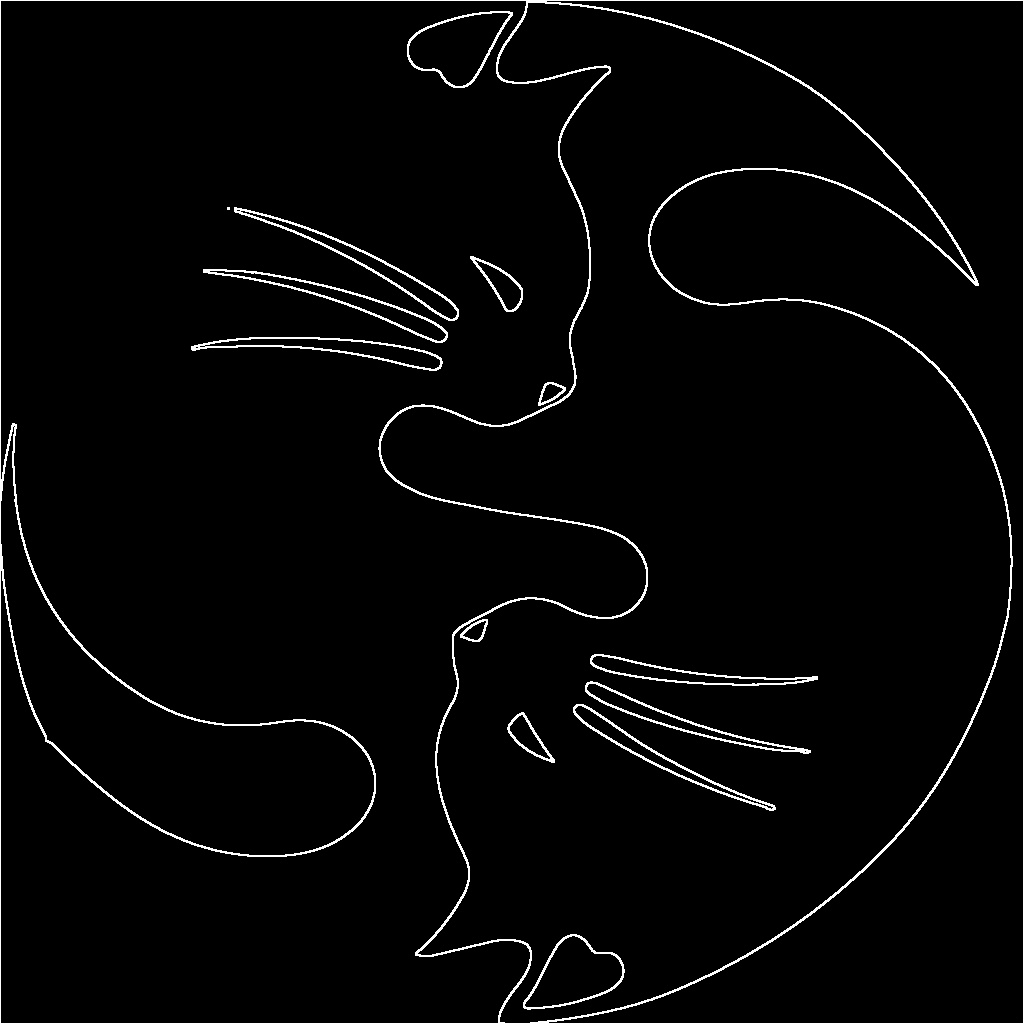
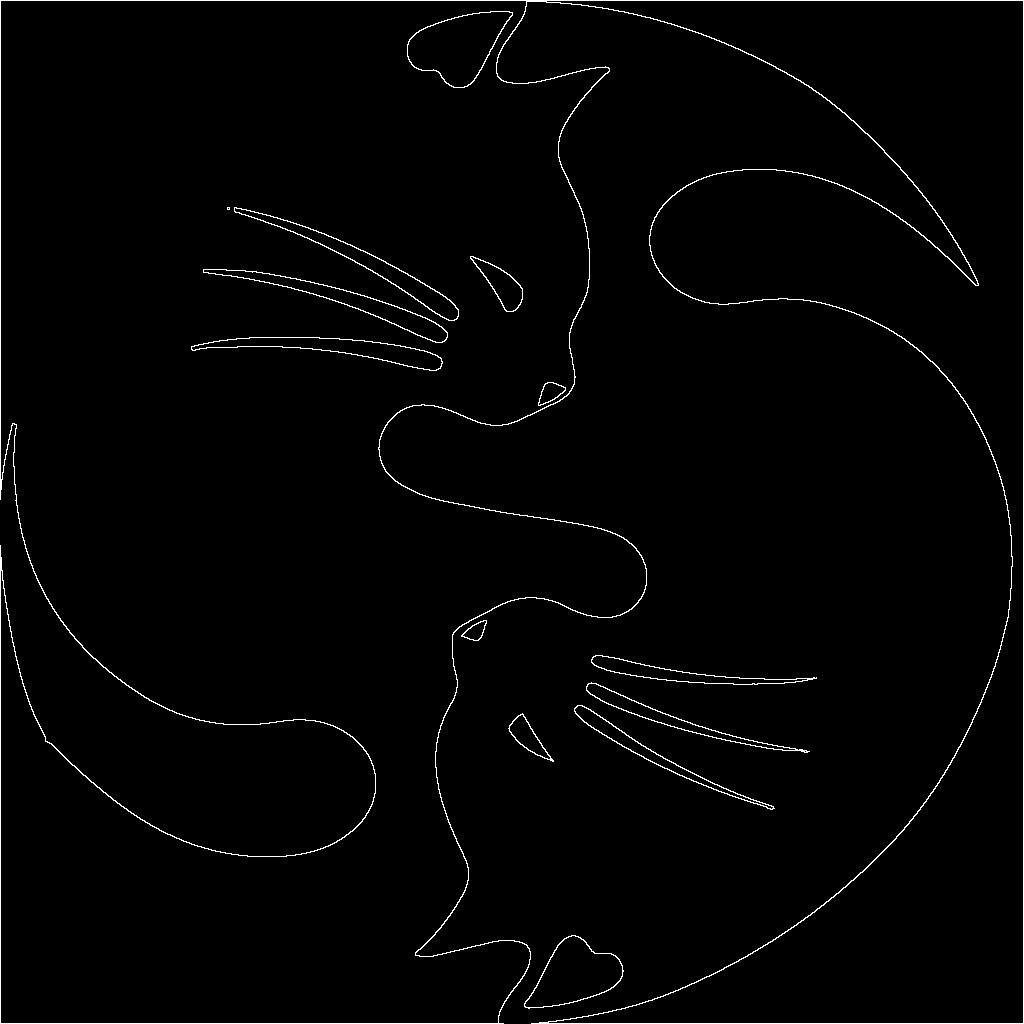
Clean up boundary.py to strictly follow instructions
https://claude.ai/code/session_016JHPkr7VWyQ7xr5h2rr9Q9

Changed region(s): [[0.5312, 0.375, 0.5625, 0.4062]]

diff --git a/project2_solution/boundary.py b/project2_solution/boundary.py
@@ -1,20 +1,17 @@
 import cv2
 import numpy as np
 
+# load image
 img = cv2.imread('Figure_P2.jpg', cv2.IMREAD_GRAYSCALE)
 h, w = img.shape
 
-# step 1: find threshold using otsu's method
-# loop through all possible thresholds and find the one with max between-class variance
-
-hist = [0] * 256
-for i in range(h):
-    for j in range(w):
-        hist[img[i, j]] += 1
-
+# ---- step 1: binarize using Otsu's method ----
+# build histogram (numpy counting is basic math)
+hist = np.bincount(img.ravel(), minlength=256)
 total = h * w
-total_mean = sum(t * hist[t] for t in range(256)) / total
 
+# find best threshold by maximising between-class variance
+total_mean = sum(t * int(hist[t]) for t in range(256)) / total
 best_t = 0
 best_var = 0.0
 w0 = 0.0
@@ -27,45 +24,33 @@ for t in range(256):
         continue
     w1 = 1 - w0
     mean1 = (total_mean - sum0) / w1
-    between = w0 * w1 * (sum0/w0 - mean1)**2
+    between = w0 * w1 * (sum0 / w0 - mean1) ** 2
     if between > best_var:
         best_var = between
         best_t = t
 
 print(f'threshold: {best_t}')
 
-# step 2: binarize the image
-binary = np.zeros((h, w), dtype=np.uint8)
-for i in range(h):
-    for j in range(w):
-        if img[i, j] > best_t:
-            binary[i, j] = 1
-
+# apply threshold
+binary = (img > best_t).astype(np.uint8)
 cv2.imwrite('binary_P2.jpg', binary * 255)
 
-
-# step 3: erosion - a pixel is 1 only if all 9 pixels around it are also 1
+# ---- step 2: morphological erosion ----
+# a pixel stays 1 only if all 9 pixels in its 3x3 neighbourhood are 1
 def erode(b):
     bh, bw = b.shape
-    padded = np.zeros((bh+2, bw+2), dtype=np.uint8)
+    padded = np.zeros((bh + 2, bw + 2), dtype=np.uint8)
     padded[1:bh+1, 1:bw+1] = b
-    res = np.ones((bh, bw), dtype=np.uint8)
+    result = np.ones((bh, bw), dtype=np.uint8)
     for di in range(3):
         for dj in range(3):
-            res = res & padded[di:di+bh, dj:dj+bw]
-    return res
+            result = result & padded[di:di+bh, dj:dj+bw]
+    return result
 
-
-# boundary = original - eroded
-# do it for white regions and black regions separately then combine
+# ---- step 3: boundary = original - eroded ----
 eroded = erode(binary)
-boundary1 = binary - eroded
+boundary = binary - eroded
 
-inv = 1 - binary
-eroded_inv = erode(inv)
-boundary2 = inv - eroded_inv
-
-boundary = boundary1 | boundary2
-
+# save output
 cv2.imwrite('Output_P2.jpg', boundary * 255)
 print(f'done, boundary pixels: {int(boundary.sum())}')
